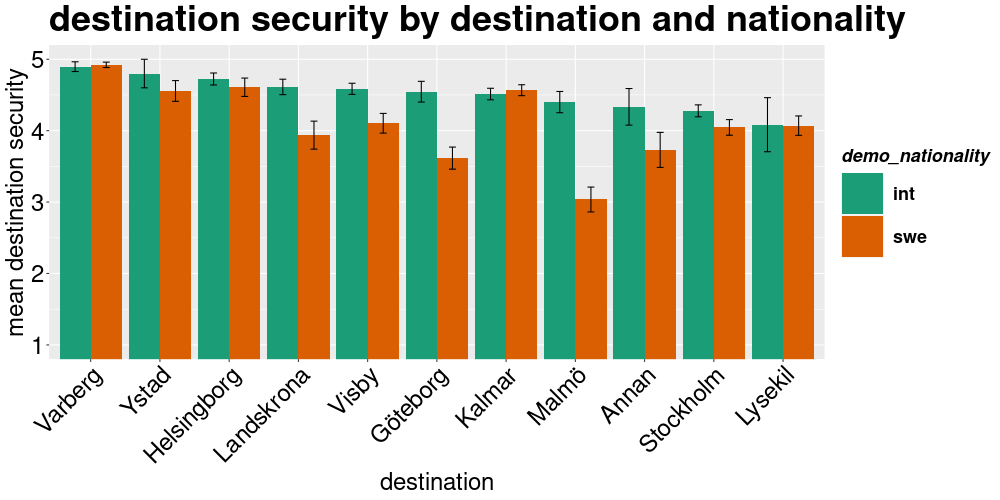
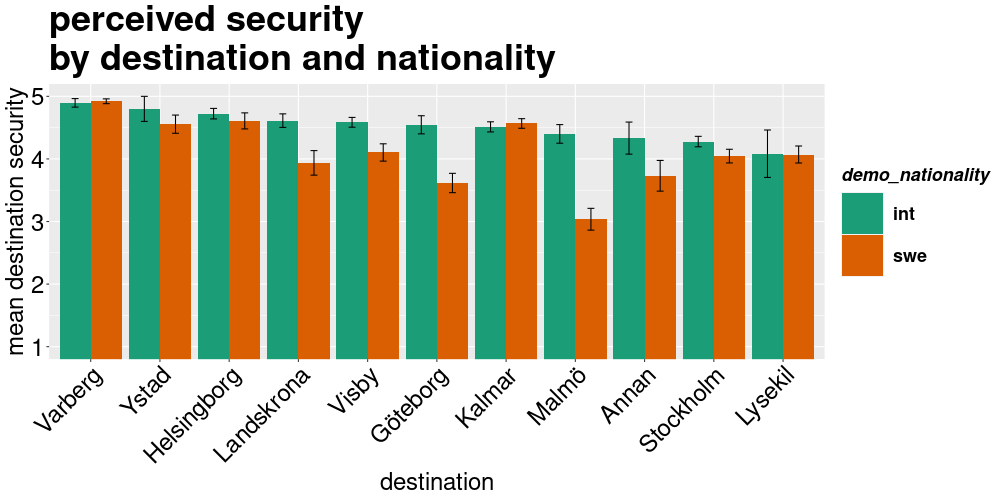
reproducible data analysis on open science framework

diff --git a/scom-tour/src/sjht-ms.md b/scom-tour/src/sjht-ms.md
@@ -1,14 +1,17 @@
 ---
 title: Explaining differences in perceived security in tourists visiting Swedish destinations
-updated: 210216
+updated: 210217
 ---
 
 # Abstract
-The results of the survey will be presented in two steps. First, some general descriptive statistics will be presented, and secondly, we use inferential statistics to test the hypotheses H1-H4 provided by the theoretical model that was generated through the literature review of previous research. Descriptive statistics show roughly a 40 / 60 percent split between international and swedish visitors respectively. About 57% of the respondents identified as women. Focusing on the first dependent variable in the study, general insecurity in tourists, descriptives show small differences in perceived insecurity depending on nationality and gender, with an overall mean insecurity score of about 2.5 on a 5 point likert scale (cf. figure 1). The second dependent measure, percieved destination security (cf. figure 2), show overall high ratings among international tourists across 11 different destinations (4.5 on a 5 point likert scale). Swedish tourists generally reported lower scores on destionation security (4.0 on the same scale).
+The results of the survey will be presented in two steps. First, some general descriptive statistics will be presented, and secondly, we use inferential statistics to test the hypotheses H1-H4 provided by the theoretical models generated through literature review of previous research. Descriptive statistics show roughly a 40 / 60 percent split between international and swedish visitors respectively. About 57% of the respondents identified as women. Focusing on the first dependent variable in the study, general insecurity in tourists, descriptive analyses show small differences in perceived insecurity depending on nationality and gender, with an overall mean insecurity score of about 2.5 on a 5-point likert scale (cf. Figure 1). The second dependent measure, percieved destination security (cf. Figure 2), show overall high ratings among domestic and international tourists across 11 different destinations (on average 4.5 on a 5-point likert scale). On average, Swedish tourists generally reported lower scores on destionation security (4.0 on the same scale).
 
-First, a number of measures were investigated for their explanatory contribution in relation to respondents' perceptions of general insecurity while travelling to tourist destinations. Based on a theoretical model informed by previous research within tourism and travelling, we hypothesized that tourists' general insecurity would be negatiely associated with their general travelling frequency (H2a). We also hypothesized that this dependent measure would be positively associated with information search (H3a), such that the more tourists search for info the more general insecurity they feel. Finally, we hypothesized that female gender and international country of origin would be associated with higher levels of perceived general insecurity (H4a).
+A number of measures were investigated for their explanatory contribution in relation to respondents' perceptions of general insecurity while travelling to Swedish tourist destinations. Based on the theoretical model informed by previous research within tourism and travelling, we hypothesized that tourists' general insecurity would be negatiely associated with their general travelling frequency (H2a). We also hypothesized that this dependent measure would be positively associated with destingation information search (H3a), such that the more general insecurity tourists feel, the more they search for travelling information. Finally, we hypothesized that female gender and international country of origin would be associated with higher levels of perceived general insecurity (H4a).
 
-To test these hypothesized associations a multiple regression analysis was performed using the statistical software R. The results of the regression model indicated that general travelling frequency in tourists was indeed associated with sligtly lower levels of general insecurity. However, as this effect did not reach significance, our observed data do not provide evedince for this hypothesis. By contast, results of the regression model indicate a strong positive association between information search about the destination and perceived insecurity (p<0.05, t=17.915) which can be interpreted such that individuals that are high in general insecurity tend to engage more in information search related to their travelling destinations. Thus, our data provide strong support for hypothesis H3a. Finally, our regression analysis revealed no effect of tourist nationality on general insecurity. However, the model indicated a strong association between male gender in tourists and lower levels of perceived insecurity. Consequently, our evidence provides mixed support for hypothesis H4a.
+To test these hypothesized associations, a multiple regression analysis was performed using the statistical software R. The results of the regression model indicated that general travelling frequency in tourists was indeed associated with sligtly lower levels of general insecurity. However, as this effect did not reach significance, our observed data do not provide support for this hypothesis. By contast, results of the regression model indicate a strong positive association between information search about the destination and perceived insecurity (p<0.05, t=17.915) which can be interpreted such that individuals that are high in general insecurity tend to engage more in information search related to their travelling destinations. Thus, our data provide strong support for hypothesis H3a. Finally, our regression analysis revealed no effect of tourist nationality on general insecurity. However, the model indicated a strong association between male gender in tourists and lower levels of perceived insecurity (p<0.05, t=-2.337). Consequently, our evidence provides mixed support for hypothesis H4a. The R-squared measure reported by the regression model, indicated that this set of predictors explained about 23.84% if the variability in perceived general insecurity in tourists.
+
+Our survey study also included a dependent variable measuring tourists' percieved security at their travel destination, and investigated how a set of 
+
 
 # Introduction
 
@@ -66,16 +69,14 @@ To test these hypothesized associations a multiple regression analysis was perfo
 \[present here \...\]
 
 # Results
+Descriptive analysis of dependent measures general insecurity and destination security.
 
-general perceived insecurity by gender
+Figure 1: (A left, B right)
+![figure](https://github.com/nils-holmberg/nils-holmberg.github.io/blob/main/scom-tour/fig/per-sec-combined-01.png?raw=true)
 
-![alt text](https://github.com/nils-holmberg/nils-holmberg.github.io/blob/main/scom-tour/fig/gen-insec-nat-gender-04.png?raw=true)
+Inferential analysis of dependent measures general insecurity and destination security.
 
-perceived security by destination
-
-![alt text](https://github.com/nils-holmberg/nils-holmberg.github.io/blob/main/scom-tour/fig/dest-sec-nat-04.png?raw=true)
-
-Table: regression model 1, mean general insecurity
+Table 1: regression model, mean general insecurity
 |term                           | estimate| std.error| statistic| p.value|
 |:------------------------------|--------:|---------:|---------:|-------:|
 |(Intercept)                    |    1.198|     0.138|     8.653|   0.000|
@@ -85,7 +86,7 @@ Table: regression model 1, mean general insecurity
 |as.factor(demo_gender)male     |   -0.134|     0.057|    -2.337|   0.020|
 |as.factor(demo_nationality)swe |   -0.007|     0.059|    -0.117|   0.907|
 
-Table: regression model 2 (mixed effects), destination security
+Table 2: regression model (mixed effects), destination security
 |term                           | Estimate| Std..Error| t.value|   p.z|
 |:------------------------------|--------:|----------:|-------:|-----:|
 |(Intercept)                    |    4.981|      0.194|  25.675| 0.000|
